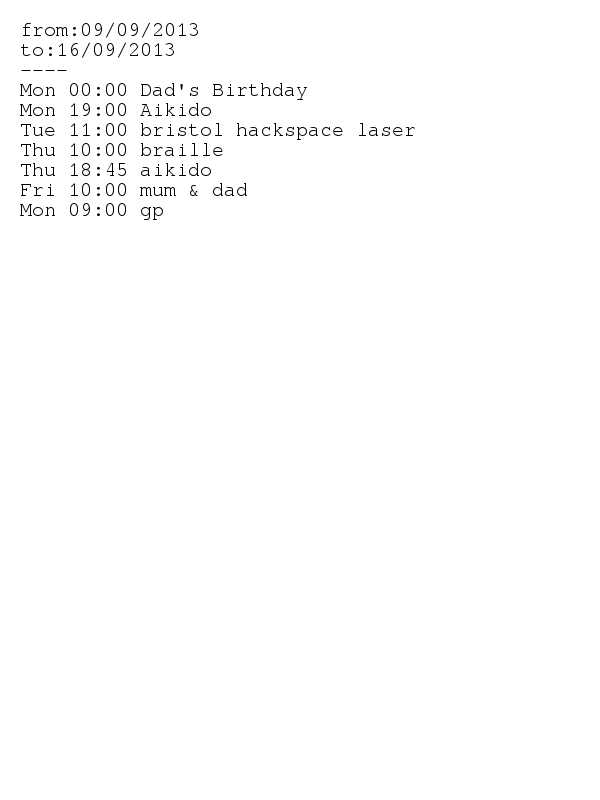
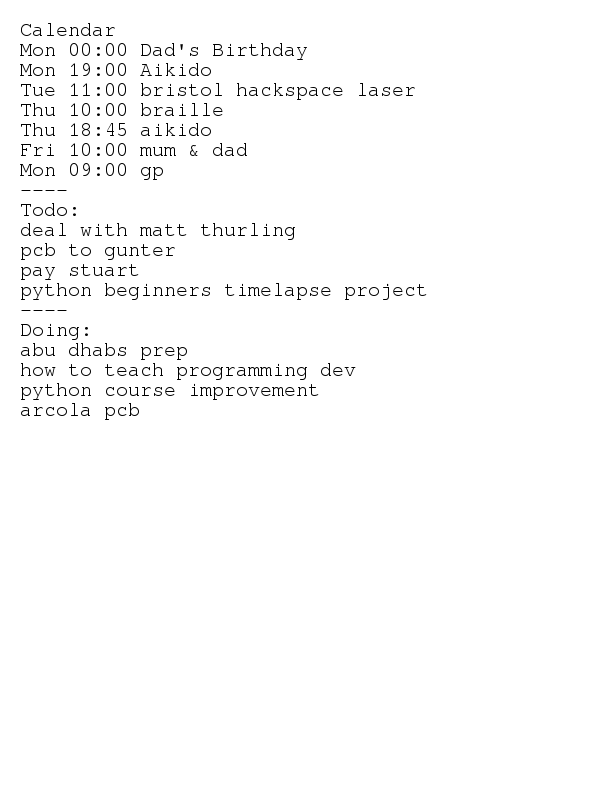
added trello tasks

diff --git a/kindlefeed.py b/kindlefeed.py
@@ -1,5 +1,6 @@
 from PIL import Image, ImageDraw, ImageFont
 import getEvents
+import fetch_tasks
 import time
 from random import randint
 import SocketServer
@@ -51,15 +52,33 @@ def make_new_date_image():
     line_height = textsize[1]
     l_margin = 20
     s_height = 20
-    draw.text([l_margin,s_height],events['from'], font=font, fill="black")
+    draw.text([l_margin,s_height],'Calendar:', font=font, fill="black")
     s_height += line_height
-    draw.text([l_margin,s_height],events['to'], font=font, fill="black")
-    s_height += line_height
-    draw.text([l_margin,s_height],'----', font=font, fill="black")
-    s_height += line_height
+    #events
     for event in events["events"]:
         draw.text([l_margin,s_height],event['start'] + ' ' + event['summary'], font=font, fill="black")
         s_height += line_height
+
+    draw.text([l_margin,s_height],'----', font=font, fill="black")
+    s_height += line_height
+    draw.text([l_margin,s_height],'Todo:', font=font, fill="black")
+    s_height += line_height
+
+    #tasks
+    trello = fetch_tasks.auth()
+    for task in fetch_tasks.get_tasks(trello,'To Do'):
+        draw.text([l_margin,s_height],task, font=font, fill="black")
+        s_height += line_height
+
+    draw.text([l_margin,s_height],'----', font=font, fill="black")
+    s_height += line_height
+    draw.text([l_margin,s_height],'Doing:', font=font, fill="black")
+    s_height += line_height
+
+    for task in fetch_tasks.get_tasks(trello,'Doing'):
+        draw.text([l_margin,s_height],task, font=font, fill="black")
+        s_height += line_height
+
     im.save("test.png", "PNG")
 
 #where we define what the server does

diff --git a/fetch_tasks.py b/fetch_tasks.py
@@ -1,0 +1,28 @@
+import trello
+import trellokeys as keys
+
+def auth():
+    client = trello.TrelloClient(keys.api_key,keys.oauth_token)
+    #import ipdb; ipdb.set_trace()
+
+    #get all the boards
+    boards = client.list_boards()
+    #only want the tasks board
+    board = filter(lambda x: x.name == 'tasks', boards)[0]
+    return board
+
+#fetch all cards in a list
+def get_tasks(board,name):
+    ret = []
+    todo = filter(lambda x: x.name == name, board.all_lists())[0]
+    cards = todo.list_cards()
+
+    print name
+    for card in cards:
+        print '>', card.name
+        ret.append(card.name)
+    return ret
+
+if __name__ == '__main__':
+    board = auth()
+    get_tasks(board,'To Do')
